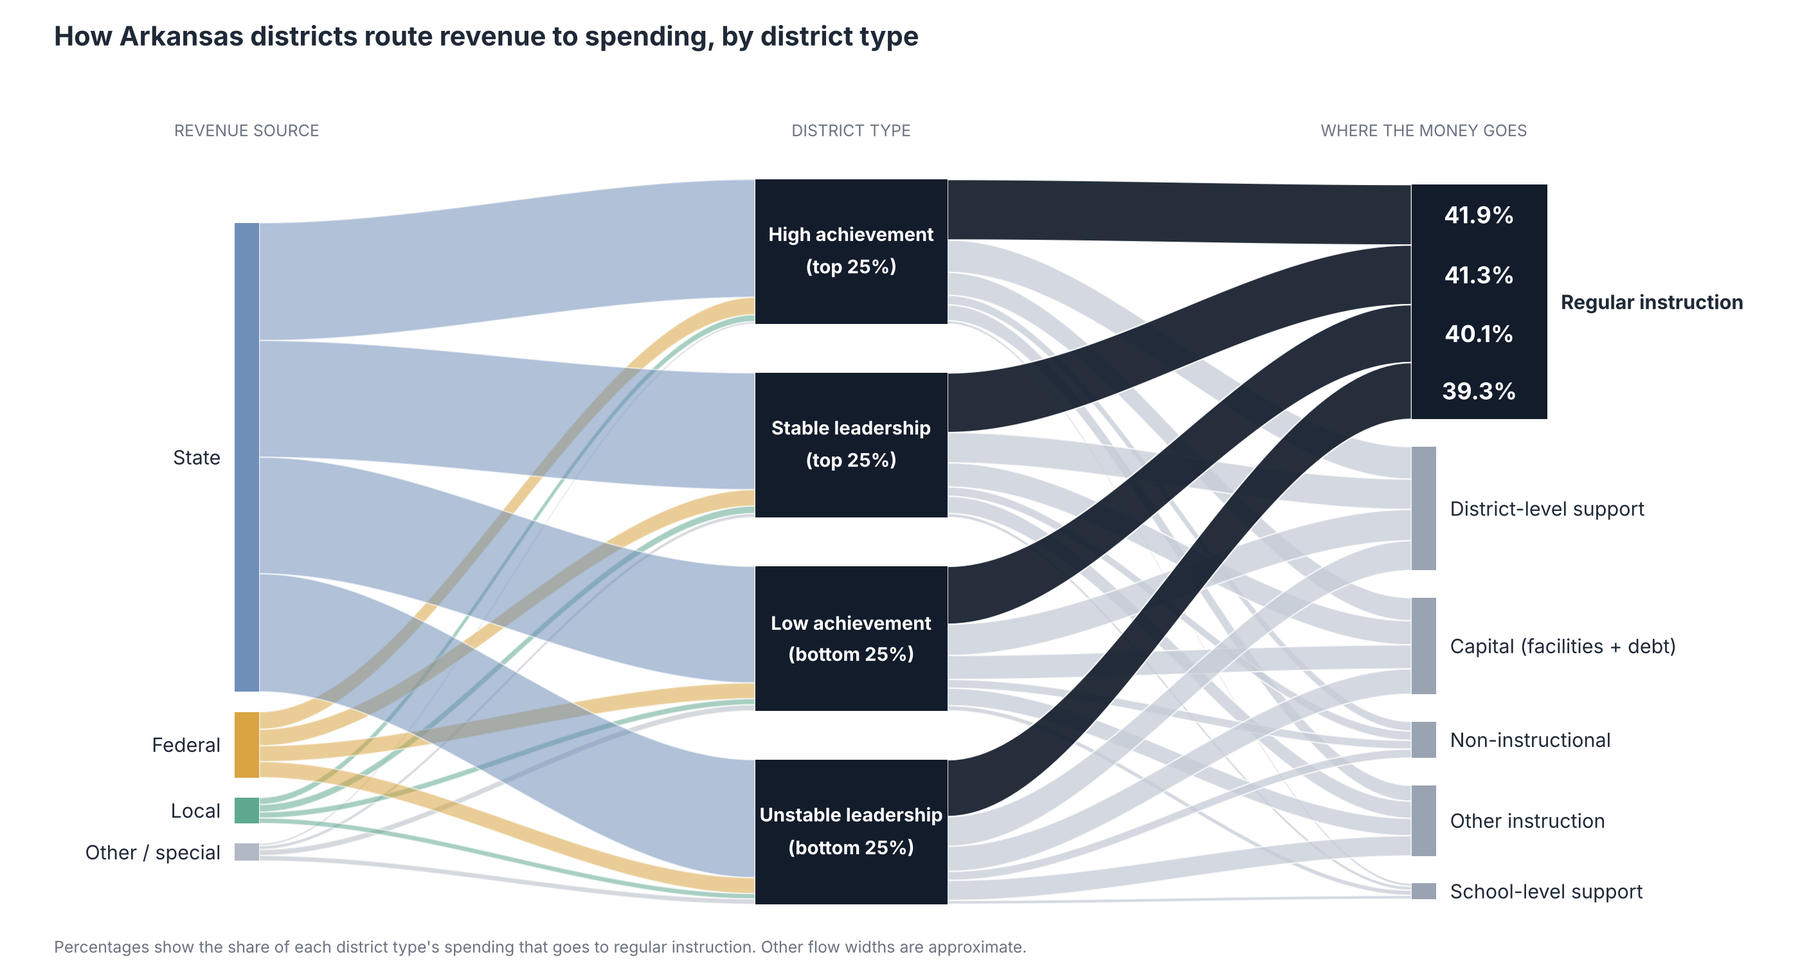
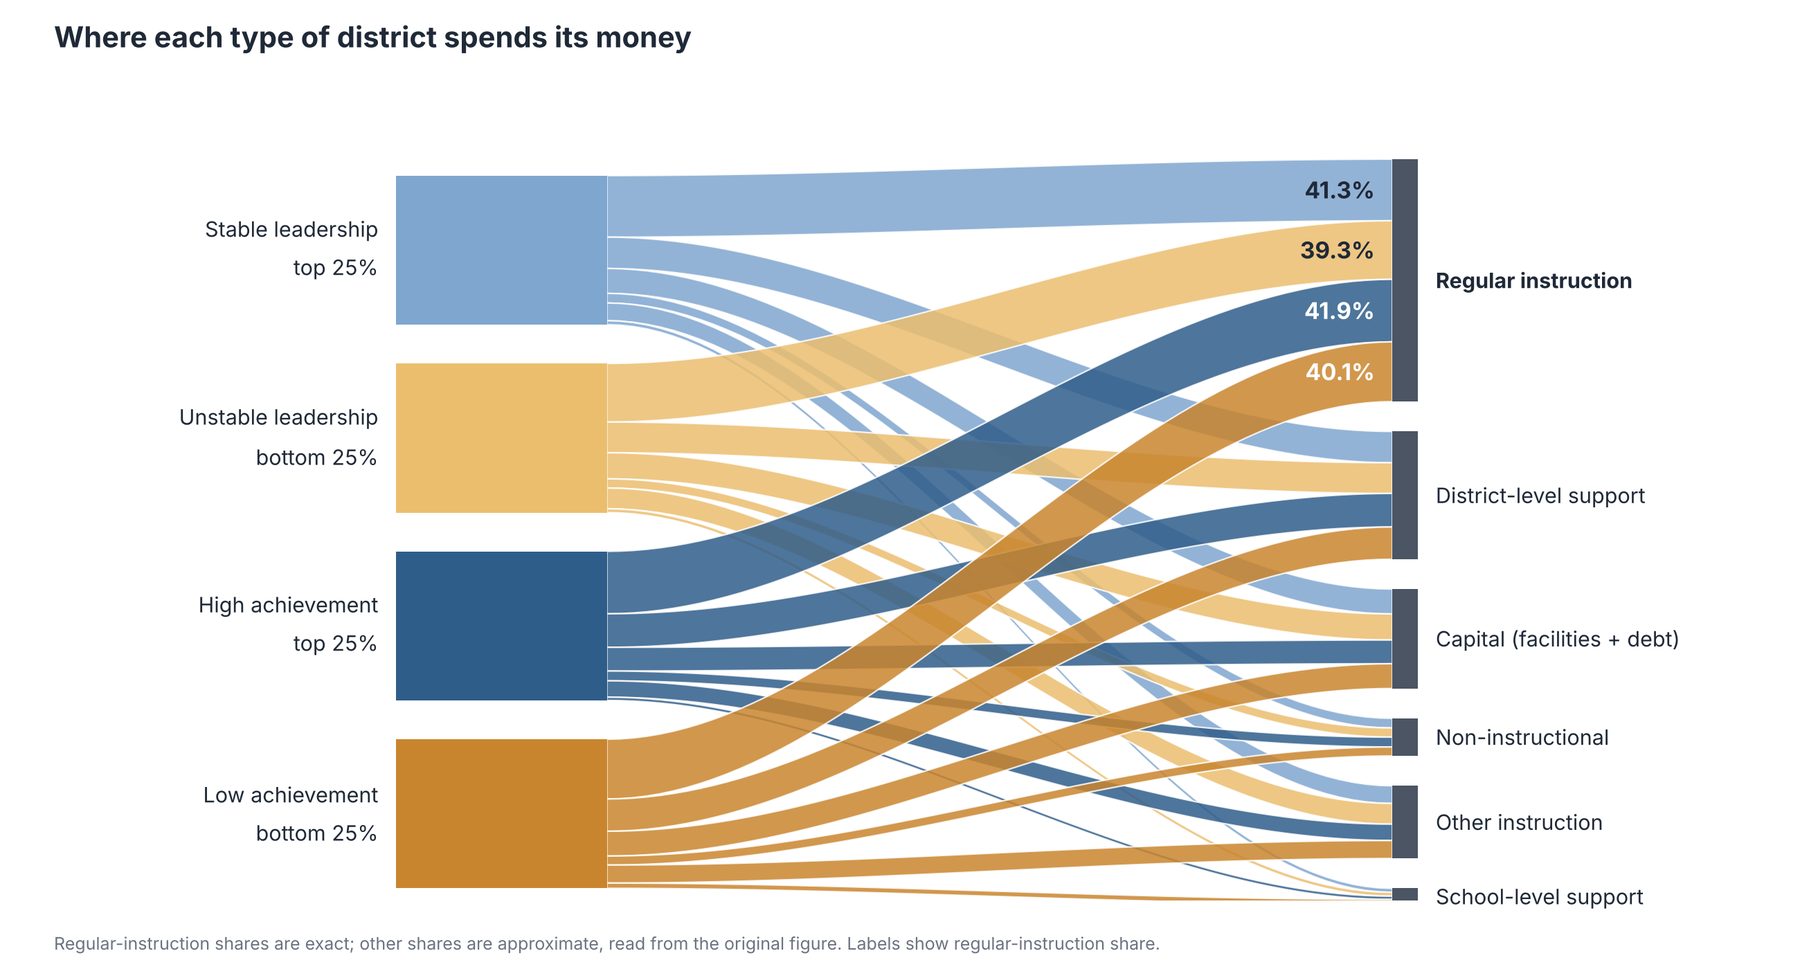
Use district-colored Sankey with stable and unstable leadership adjacent
Claude-Session: https://claude.ai/code/session_01T6rjhsK2Rw2cAhC65pqLNs

diff --git a/research.html b/research.html
@@ -9,7 +9,7 @@
 <link rel="preconnect" href="https://fonts.googleapis.com">
 <link rel="preconnect" href="https://fonts.gstatic.com" crossorigin>
 <link href="https://fonts.googleapis.com/css2?family=Source+Serif+4:ital,wght@0,400;0,600;1,400&family=Inter:wght@400;500;600;700&display=swap" rel="stylesheet">
-<link rel="stylesheet" href="style.css?v=20261032">
+<link rel="stylesheet" href="style.css?v=20261033">
 </head>
 <body>
 
@@ -145,8 +145,8 @@
     </div>
     <div class="jmp-figures">
       <figure>
-        <a href="assets/images/research/leadership-sankey.png"><img src="assets/images/research/leadership-sankey.png" alt="Sankey diagram of how revenue sources flow to four district types and then to spending categories" loading="lazy"></a>
-        <figcaption><strong>Figure 1.</strong> How revenue flows to spending, by district type (top and bottom quartiles of achievement and of leadership stability). Dark flows show the share of each district type&rsquo;s spending that goes to regular instruction: 41.9% (high achievement), 41.3% (stable leadership), 40.1% (low achievement), and 39.3% (unstable leadership). Other flow widths are approximate.</figcaption>
+        <a href="assets/images/research/leadership-sankey.png"><img src="assets/images/research/leadership-sankey.png" alt="Sankey diagram of how stable-leadership, unstable-leadership, high-achievement, and low-achievement districts divide spending across categories" loading="lazy"></a>
+        <figcaption><strong>Figure 1.</strong> Where each type of district spends its money, for districts in the top and bottom quartiles of leadership stability and of achievement. Labels show the share of spending going to regular instruction: 41.3% (stable leadership), 39.3% (unstable leadership), 41.9% (high achievement), and 40.1% (low achievement). Other flow widths are approximate.</figcaption>
       </figure>
     </div>
 

diff --git a/about.html b/about.html
@@ -9,7 +9,7 @@
 <link rel="preconnect" href="https://fonts.googleapis.com">
 <link rel="preconnect" href="https://fonts.gstatic.com" crossorigin>
 <link href="https://fonts.googleapis.com/css2?family=Source+Serif+4:ital,wght@0,400;0,600;1,400&family=Inter:wght@400;500;600;700&display=swap" rel="stylesheet">
-<link rel="stylesheet" href="style.css?v=20261032">
+<link rel="stylesheet" href="style.css?v=20261033">
 </head>
 <body>
 

diff --git a/contact.html b/contact.html
@@ -9,7 +9,7 @@
 <link rel="preconnect" href="https://fonts.googleapis.com">
 <link rel="preconnect" href="https://fonts.gstatic.com" crossorigin>
 <link href="https://fonts.googleapis.com/css2?family=Source+Serif+4:ital,wght@0,400;0,600;1,400&family=Inter:wght@400;500;600;700&display=swap" rel="stylesheet">
-<link rel="stylesheet" href="style.css?v=20261032">
+<link rel="stylesheet" href="style.css?v=20261033">
 </head>
 <body>
 

diff --git a/cv.html b/cv.html
@@ -9,7 +9,7 @@
 <link rel="preconnect" href="https://fonts.googleapis.com">
 <link rel="preconnect" href="https://fonts.gstatic.com" crossorigin>
 <link href="https://fonts.googleapis.com/css2?family=Source+Serif+4:ital,wght@0,400;0,600;1,400&family=Inter:wght@400;500;600;700&display=swap" rel="stylesheet">
-<link rel="stylesheet" href="style.css?v=20261032">
+<link rel="stylesheet" href="style.css?v=20261033">
 </head>
 <body>
 

diff --git a/index.html b/index.html
@@ -9,7 +9,7 @@
 <link rel="preconnect" href="https://fonts.googleapis.com">
 <link rel="preconnect" href="https://fonts.gstatic.com" crossorigin>
 <link href="https://fonts.googleapis.com/css2?family=Source+Serif+4:ital,wght@0,400;0,600;1,400&family=Inter:wght@400;500;600;700&display=swap" rel="stylesheet">
-<link rel="stylesheet" href="style.css?v=20261032">
+<link rel="stylesheet" href="style.css?v=20261033">
 </head>
 <body>
 

diff --git a/service.html b/service.html
@@ -9,7 +9,7 @@
 <link rel="preconnect" href="https://fonts.googleapis.com">
 <link rel="preconnect" href="https://fonts.gstatic.com" crossorigin>
 <link href="https://fonts.googleapis.com/css2?family=Source+Serif+4:ital,wght@0,400;0,600;1,400&family=Inter:wght@400;500;600;700&display=swap" rel="stylesheet">
-<link rel="stylesheet" href="style.css?v=20261032">
+<link rel="stylesheet" href="style.css?v=20261033">
 </head>
 <body>
 

diff --git a/teaching.html b/teaching.html
@@ -9,7 +9,7 @@
 <link rel="preconnect" href="https://fonts.googleapis.com">
 <link rel="preconnect" href="https://fonts.gstatic.com" crossorigin>
 <link href="https://fonts.googleapis.com/css2?family=Source+Serif+4:ital,wght@0,400;0,600;1,400&family=Inter:wght@400;500;600;700&display=swap" rel="stylesheet">
-<link rel="stylesheet" href="style.css?v=20261032">
+<link rel="stylesheet" href="style.css?v=20261033">
 </head>
 <body>
 
